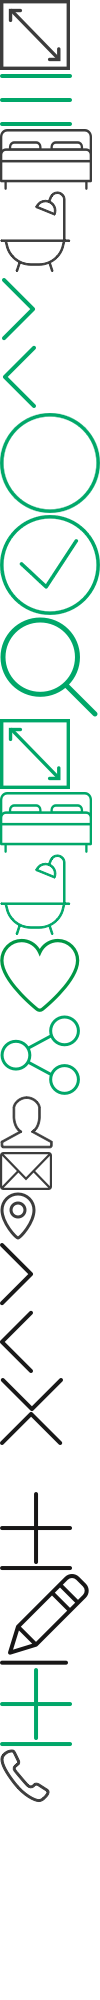
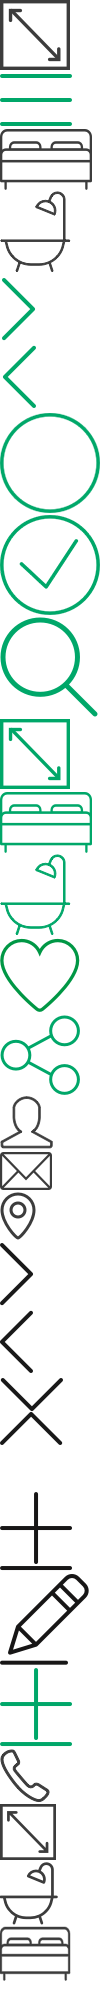
update html

Changed region(s): [[0.0, 0.899, 0.72, 0.992], [0.0, 0.899, 0.03, 0.93]]

diff --git a/apps/metvuong/frontend/web/themes/mv_mobile1/resources/css/style.css b/apps/metvuong/frontend/web/themes/mv_mobile1/resources/css/style.css
@@ -29,7 +29,7 @@ a:link {
     background: url(../images/icon.png) no-repeat top left;
     background-size: 33.333333333333336px 666.6666666666666px;
     display: inline-block;
-    vertical-align: middle;
+    /* vertical-align: middle; */
 }
 header {
     background: #fff;
@@ -509,17 +509,30 @@ header {
     color: #171616;
     font-weight: 400;
     font-size: 14px;
-    margin-bottom: 5px;
     position: relative;
 }
-.address-listing p {
-    /* padding-right: 50px; */
+.item-listing .address-listing {
+    font-weight: 700;
+    font-size: 15px;
+    margin: 7px 0;
+}
+.item-listing .address-listing span {
+    margin-right: 5px;
+    position: relative;
+    top: 2px;
+}
+.address-listing p span {
+    position: relative;
+    top: 2px;
+    margin-right: 5px;
 }
 .address-listing .name-tdang {
-    letter-spacing: 0.5px;
     color: #00a769;
-    font-size: 17px;
+    font-size: 15px;
     font-weight: 700;
+    text-transform: uppercase;
+    line-height: 20px;
+    margin-bottom: 5px;
 }
 .address-listing a {
     color: #333;
@@ -1000,11 +1013,9 @@ label {
     margin-top: 20px;
 }
 .icon-edit {
-    display: inline-block;
-    width: 25px;
-    height: 25px;
-    background-position: -53px -53px;
-    vertical-align: middle;
+    width: 30px;
+    height: 30.6px;
+    background-position: 0 -510px;
 }
 .detail-listing .edit-gallery {
     position: absolute;
@@ -1214,7 +1225,7 @@ label {
 .val-selected,
 .value-selected {
     /* border: 1px solid #F1F1F1; */
-    background: #f4f4f4;
+    background: #f0f0f0;
     height: 40px;
     line-height: 37px;
     padding-left: 10px;
@@ -1339,7 +1350,12 @@ label {
     height: 20px;
     background-position: 0 -43px;
     position: relative;
-    top: 5px;
+    top: 1px;
+}
+.icon-bed-small {
+    background-position: 0 -642px;
+    width: 24px;
+    height: 18px;
 }
 .icon-bath {
     display: inline-block;
@@ -2083,7 +2099,7 @@ footer {
 footer li a {
     color: #fff;
     font-weight: 600;
-    padding: 15px 0;
+    padding: 10px 0;
     display: block;
 }
 footer .col-xs-6 {
@@ -2134,7 +2150,7 @@ footer {
     -moz-box-shadow: 0 2px 1px 0 rgba(211, 211, 211, 0.5);
     -ms-box-shadow: 0 2px 1px 0 rgba(211, 211, 211, 0.5);
     padding-bottom: 15px;
-    margin-bottom: 30px;
+    margin-bottom: 25px;
     float: left;
     width: 100%;
     background: #fafafa;
@@ -2144,7 +2160,7 @@ footer {
 }
 .wrap-list-duan .img-intro {
     width: 40%;
-    margin-right: 25px;
+    margin-right: 15px;
     text-align: center;
 }
 .wrap-list-duan .img-intro .bgcover {
@@ -2167,8 +2183,8 @@ footer {
 }
 .wrap-list-duan .intro-detail .icon-edit {
     position: absolute;
-    top: 0px;
-    right: 0;
+    top: -15px;
+    right: -5px;
 }
 .wrap-list-duan .intro-detail .name-duan {
     border-bottom: solid 1.4px #a8a8a8;
@@ -2720,6 +2736,11 @@ input[type=text]:focus {
     position: relative;
     top: 3px;
 }
+.icon-dt-small {
+    background-position: 0 -601px;
+    width: 19px;
+    height: 19px;
+}
 .icon-pt {
     display: inline-block;
     width: 24px;
@@ -2727,6 +2748,11 @@ input[type=text]:focus {
     background-position: 0 -64px;
     position: relative;
     top: 3px;
+}
+.icon-pt-small {
+    background-position: 0 -621px;
+    width: 19px;
+    height: 21px;
 }
 .list-tienich-intro li .wrap-icon {
     display: inline-block;
@@ -2977,6 +3003,7 @@ input[type=text]:focus {
 .img-show {
 	position: relative;
 	overflow: hidden;
+	background: gainsboro;
 }
 .img-show:before {
 	display: block;
@@ -2990,6 +3017,16 @@ input[type=text]:focus {
     left: 0;
     right: 0;
     bottom: 0;
+}
+.img-show > div img {
+    position: absolute;
+    left: 50%;
+    top: 50%;
+    width: 100%;
+    z-index: 0;
+    -webkit-transform: translate(-50%,-50%);
+    -ms-transform: translate(-50%,-50%);
+    transform: translate(-50%,-50%);
 }
 .icon-dt-1 {
     background-position: 0 -240px;
@@ -3018,18 +3055,26 @@ input[type=text]:focus {
     font-weight: 600;
     font-size: 15px;
     vertical-align: middle;
-    padding: 2px 0;
+    line-height: 100%;
+    margin-bottom: 14px;
+}
+.left-attr li:last-child {
+    margin-bottom: 0;
+}
+.left-attr li:last-child .wrap-icon {
+    position: relative;
+    top: -4px;
 }
 .price-td {
     letter-spacing: 0.7px;
     color: #3c3c3c;
-    font-weight: 600;
-    font-size: 17px;
+    font-weight: 700;
+    font-size: 20px;
 }
 .price-td span {
     letter-spacing: 0.7px;
     color: #00a769;
-    font-size: 15px;
+    font-size: 16px;
     display: block;
     font-weight: 700;
 }
@@ -3067,8 +3112,63 @@ input[type=text]:focus {
 }
 .item-agent {
     padding: 5px 0;
+    white-space: nowrap;
+    text-overflow: ellipsis;
+    overflow: hidden;
 }
 .img-agent .btn-small {
     width: 100%;
     margin-top: 15px;
+}
+.wrap-list-duan .img-intro .img-show:before {
+    padding-top: 90%;
+}
+.name-listing {
+    color: #3c3c3c;
+    font-weight: 700;
+    font-size: 17px;
+    margin-bottom: 5px;
+}
+.list-attr-td li {
+    float: left;
+    color: #3c3c3c;
+    font-size: 15px;
+    border-right: 2px solid #B5B5B5;
+    padding-right: 15px;
+    margin-right: 15px;
+    height: 20px;
+}
+.list-attr-td li:last-child {
+    padding-right: 0;
+    margin-right: 0;
+    border: none;
+}
+.list-attr-td li span {
+    margin-right: 8px;
+}
+.list-attr-td {
+    margin-bottom: 14px;
+}
+.list-attr-td li .icon-bed {
+    top: 3px;
+}
+.list-attr-td li .icon-pt {
+    top: -1px;
+}
+.list-attr-td li:last-child span {
+    vertical-align: middle;
+}
+.item-listing .price {
+    border: solid 1.5px #00a769;
+    letter-spacing: 0.8px;
+    color: #00a769;
+    font-weight: 700;
+    padding: 5px 35px;
+    display: inline-block;
+}
+.view-more {
+    letter-spacing: 0.3px;
+    color: #3c3c3c;
+    font-size: 15px;
+    margin-top: 5px;
 }

diff --git a/apps/metvuong/frontend/web/themes/mv_mobile1/views/ad/index.php b/apps/metvuong/frontend/web/themes/mv_mobile1/views/ad/index.php
@@ -57,13 +57,26 @@ $types = AdProduct::getAdTypes ();
 							href="#">Môi Giới</a>
 					</p>
 					<p class="address-listing">
-						<a href="<?= Url::to(['/ad/detail', 'id' => $product->id]) ?>"><?= $product->getAddress(true) ?></a>
+						<span class="icon address-icon"></span><a href="<?= Url::to(['/ad/detail', 'id' => $product->id]) ?>"><?= $product->getAddress(true) ?></a>
 					</p>
-					<p class="attr-home">
+					<!-- <p class="attr-home">
 						<?= $product->adProductAdditionInfo->room_no ? $product->adProductAdditionInfo->room_no . ' <span class="icon icon-bed"></span> | ' : ''?>
 						<?= $product->adProductAdditionInfo->toilet_no ? $product->adProductAdditionInfo->toilet_no . ' <span class="icon icon-bath"></span> | ' : ''?>
 						<span class="price"><?= StringHelper::formatCurrency($product->price) ?></span>
-					</p>
+					</p> -->
+					<ul class="clearfix list-attr-td">
+						<li>
+							<span class="icon icon-dt icon-dt-small"></span>80m2
+						</li>
+						<li>
+							<span class="icon icon-bed icon-bed-small"></span> 2
+						</li>
+						<li>
+							<span class="icon icon-pt icon-pt-small"></span> 2
+						</li>
+					</ul>
+					<span class="price"><?= StringHelper::formatCurrency($product->price) ?></span>
+					<a href="<?= Url::to(['/ad/detail', 'id' => $product->id]) ?>" class="pull-right view-more">Chi tiết</a>
 				</div>
 				<?php endforeach; ?>
 			</div>

diff --git a/apps/metvuong/frontend/web/themes/mv_mobile1/views/ad/detail.php b/apps/metvuong/frontend/web/themes/mv_mobile1/views/ad/detail.php
@@ -53,7 +53,7 @@ use yii\helpers\Url;
 
 		<div class="address-listing">
 			<p class="name-tdang">LIP SUM DOLOR SIT AMET</p>
-			<p><?= $product->getAddress(true) ?></p>
+			<p><span class="icon address-icon"></span><?= $product->getAddress(true) ?></p>
 		</div>
 		<!-- <p class="attr-home">
 			<?= $product->adProductAdditionInfo->room_no ? $product->adProductAdditionInfo->room_no . ' <span class="icon icon-bed"></span> | ' : '' ?>
@@ -215,12 +215,6 @@ use yii\helpers\Url;
 								<?= $product->adContactInfo->email ?>
 							</div>
 							<?php endif; ?>
-							<div class="item-agent">
-								<div>
-									<span class="icon icon-email"></span>
-								</div>
-								huan.ta@gmail.com
-							</div>
 							<div class="item-agent">
 								<div>
 									<span class="icon address-icon"></span>

diff --git a/apps/metvuong/frontend/web/themes/mv_mobile1/views/dashboard/ads/index.php b/apps/metvuong/frontend/web/themes/mv_mobile1/views/dashboard/ads/index.php
@@ -11,8 +11,11 @@ use yii\helpers\Url;
 			<?php foreach($products as $product): ?>
 			<li>
 				<div class="img-intro pull-left">
-					<div class="bgcover" style="background-image:url(<?= $product->getImage() ?>);"><a href="<?=Url::to(['/dashboard/statistics', 'id' => $product->id])?>"></a></div>
-					<a href="<?=Url::to(['/dashboard/statistics', 'id' => $product->id])?>"><em class="icon-bar-chart"></em>View Stats</a>
+					<div class="img-show">
+						<div>
+							<a href="<?=Url::to(['/dashboard/statistics', 'id' => $product->id])?>"><img src="<?= $product->getImage() ?>"></a>
+						</div>
+					</div>
 					<?php if($product->end_date < time()): ?>
 					<a class="unactive-pro" href="#"><em class="fa fa-close"></em>Inactive</a>
 					<?php else: ?>
